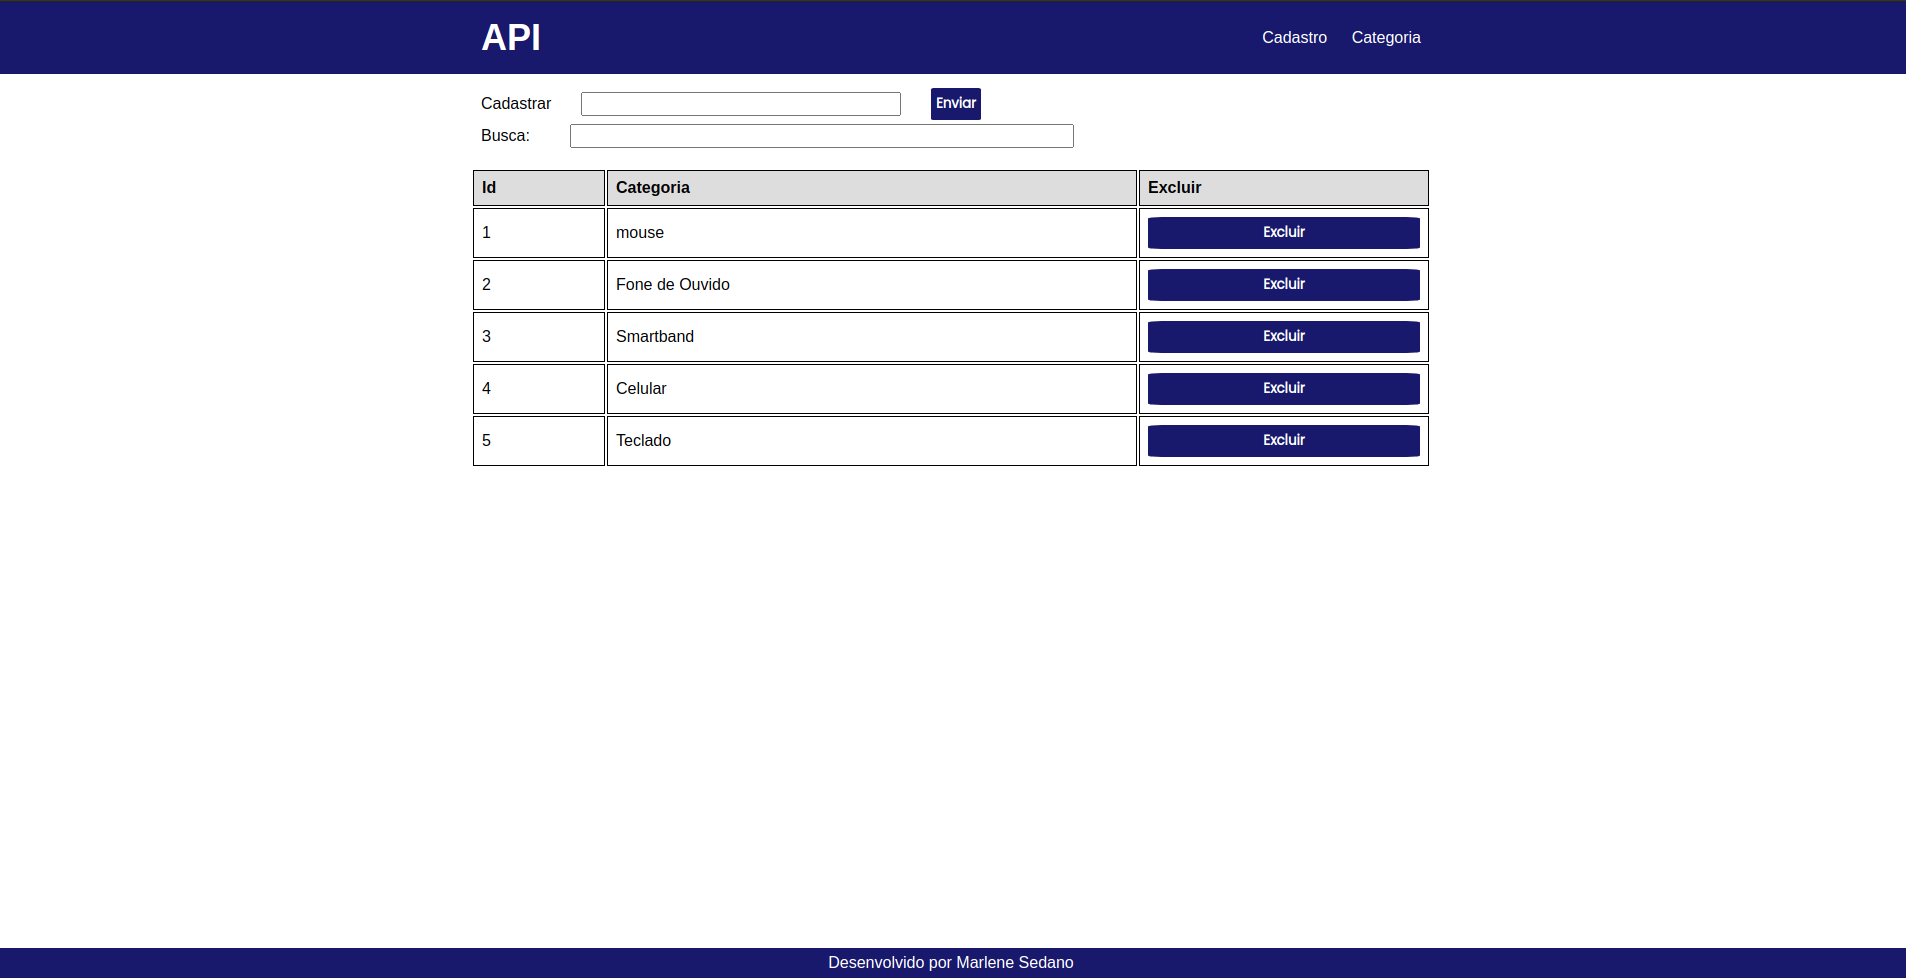
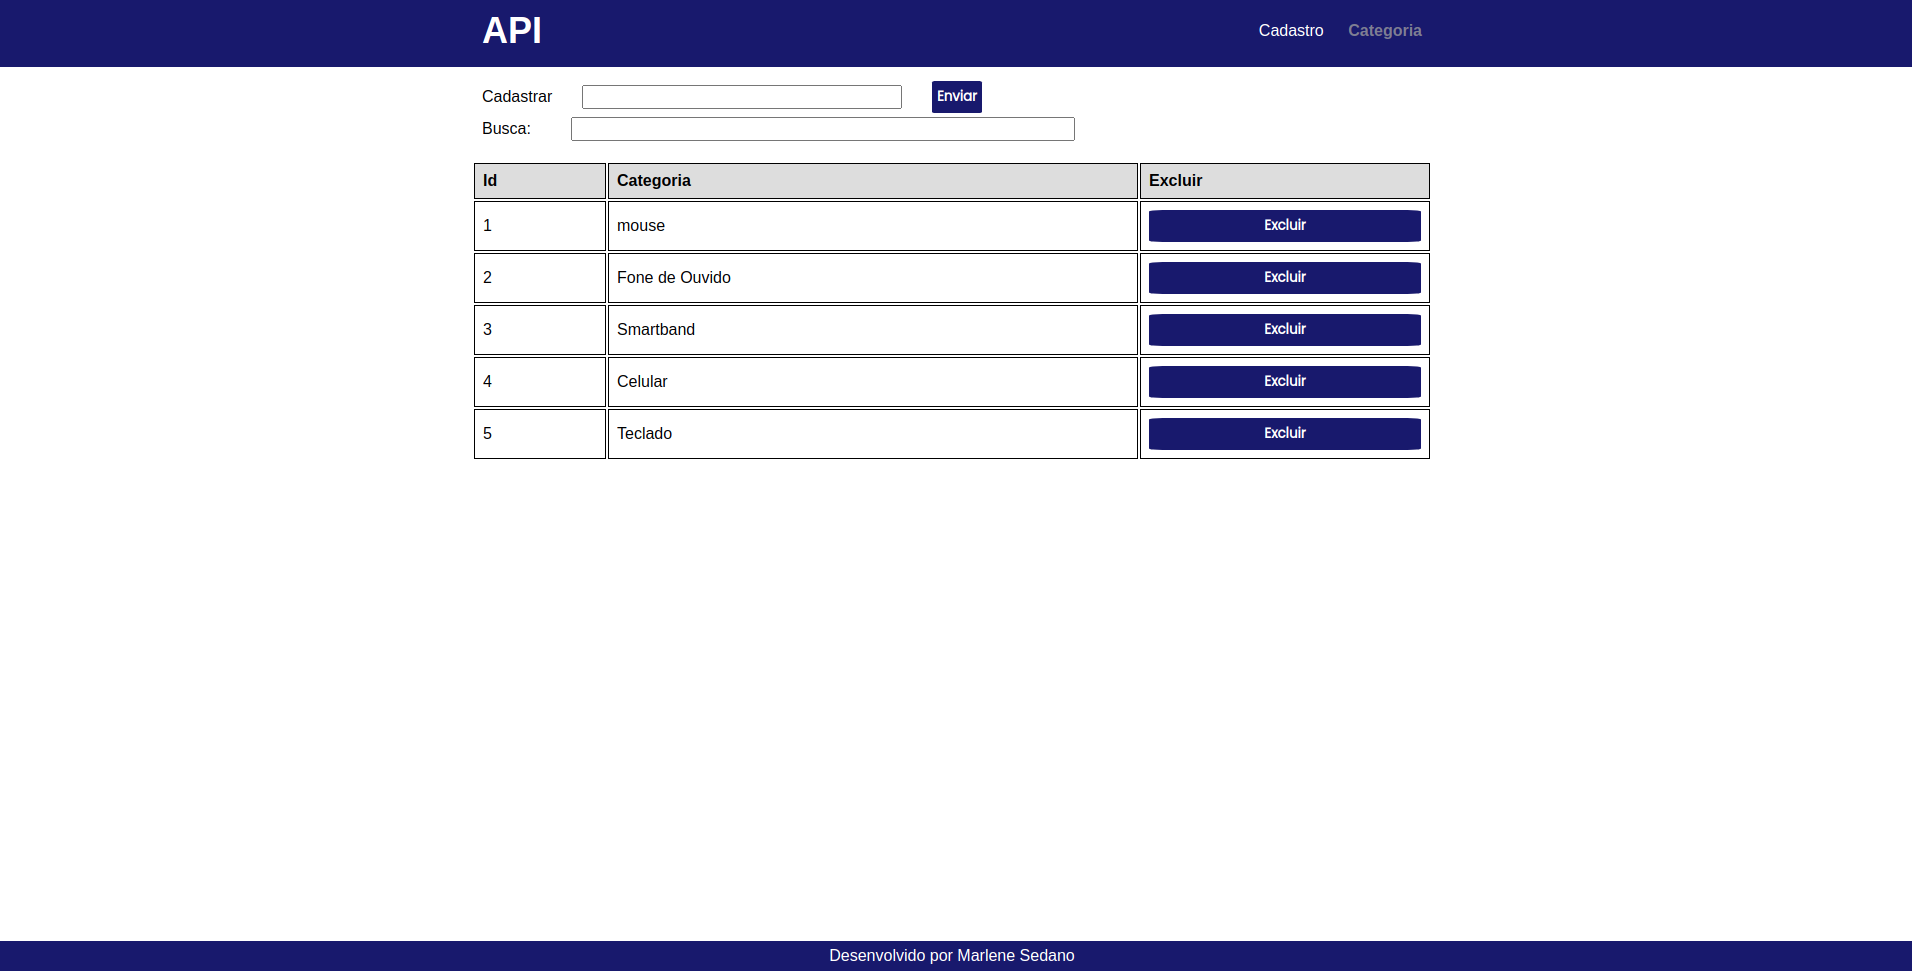
Adicionado Readme e melhorando layout

Changed region(s): [[0.0, 0.0, 1.0, 0.4943], [0.4334, 0.9578, 0.5572, 1.0], [0.7429, 0.4325, 0.7739, 0.4634]]

diff --git a/styles.css b/styles.css
@@ -40,6 +40,12 @@ a {
   margin: 0 10px;
 }
 
+a:hover {
+  color: #7e7e94;
+  font-weight: bold;
+  transition: all ease 0.3s;
+}
+
 .menu-bg {
   background: var(--cor-bg-main);
 }
@@ -58,7 +64,12 @@ a {
   padding: 10px;
 }
 
-.controler{
+.spotlight{
+  color: #7e7e94;
+  font-weight: bold;
+}
+
+.controler {
   flex-direction: column;
   text-align: center;
   align-items: center;
@@ -68,20 +79,20 @@ a {
   flex-wrap: wrap;
 }
 
-.form-list{
+.form-list {
   display: flex;
   flex-direction: column;
   max-width: 960px;
   margin: 30px auto;
 }
 
-.input{
+.input {
   margin: 5px 0;
   height: 20px;
   font-family: var(--font-main);
 }
 
-#send{
+#send {
   width: 400px;
   justify-content: center;
 }
@@ -99,16 +110,15 @@ a {
   font-family: var(--font-main);
 }
 
-#category{
+#category {
   height: 25px;
   font-family: var(--font-main);
 }
 
-.register{
+.register {
   width: 500px;
   height: 20px;
   justify-content: center;
-  
 }
 
 .table-list {
@@ -127,7 +137,7 @@ th {
   background-color: #dddddd;
 }
 
-button{
+button {
   background: var(--cor-bg-main);
   width: 100%;
   height: 2rem;
@@ -138,14 +148,15 @@ button{
   font-weight: bold;
 }
 
-button:hover{
+button:hover {
   background-color: var(--cor-font-main);
   color: black;
   cursor: pointer;
-  border: 1px solid  black;
+  border: 1px solid black;
 }
 
-.register, .search-input{
+.register,
+.search-input {
   display: flex;
   align-items: center;
   justify-content: flex-start;
@@ -153,15 +164,15 @@ button:hover{
   gap: 20px;
 }
 
-.send{
+.send {
   display: flex;
   justify-content: flex-start;
   width: 50px;
   padding: 5px auto;
 }
 
-.search-input{
-  gap: 40px
+.search-input {
+  gap: 40px;
 }
 
 footer {

diff --git a/cad_products.html b/cad_products.html
@@ -21,7 +21,11 @@
         <nav class="menu-nav">
           <ul>
             <li>
-              <a href="http://127.0.0.1:5500/cad_products.html#">Cadastro</a>
+              <a
+                class="spotlight"
+                href="http://127.0.0.1:5500/cad_products.html#"
+                >Cadastro</a
+              >
               <a href="http://127.0.0.1:5500/cad_category.html#">Categoria</a>
             </li>
           </ul>
@@ -38,7 +42,7 @@
         <input class="input price" type="text" />
         <label for="category">Categoria</label>
         <select id="category" class="input category" name="category">
-          <!-- <option value="category_bd">Selecione</option> -->
+          <option value="category_bd">Selecione</option>
         </select>
         <div class="send">
           <button type="submit" id="send">Enviar</button>

diff --git a/cad_category.html b/cad_category.html
@@ -21,7 +21,11 @@
           <ul>
             <li>
               <a href="http://127.0.0.1:5500/cad_products.html#">Cadastro</a>
-              <a href="http://127.0.0.1:5500/cad_products.html#">Categoria</a>
+              <a
+                class="spotlight"
+                href="http://127.0.0.1:5500/cad_products.html#"
+                >Categoria</a
+              >
             </li>
           </ul>
         </nav>

diff --git a/README.md b/README.md
@@ -1,6 +1,6 @@
 # Consumo de API
 
-Implementar
+Projeto de consumo de API onde é possivel cadastrar produtos e categorias e filtrar-los, ultilizando Json-Server.
 
 ## Projeto Consumo de API com Json Server
 
@@ -13,32 +13,36 @@ Este projeto foi desenvolvido com as seguintes tecnologias:
 - HTML
 - Css
 - JavaScript
+- Json-Server
 
                                                      
 ## Demonstração
  
-<img src="">
 
-Implementar
+Nesta tela mostra o inicio do projeto, onde é possivel filtrar os produtos por Nome e caso queira excluir, o processo de excluir vai excluir tanto da DOM quanto do Banco de Dados (Json-server).
 
-<img src="./assets/tela2.png">
+<img src="./assets/inicio.png">
 
-. 
-
-<img src="./assets/tela3.png">
+Ao selecionar a guia Cadastro que se encontra no header, é possivel cadastrar o produto. Basta preencher os campos e selecionar a categoria desejada, caso não tenha a categoria é possivel cadastrar na guia Categoria.
+<img src="./assets/cadproduto.png">
+ 
+Na tela abaixo é a tela de Categorias, onde é possivel também realizar a busca por nome e também é possivel realizar o cadastro.
+<img src="./assets/categoria.png">
 
 
 ## Como usar
 
 ```
-Implementar
+Para usar tem que baixar o pacote do Json no seguinte caminho: https://github.com/typicode/json-server.
+
+Ao dar o start no serviço, usar o banco de dados bd.json que esta também anexado no repositório. (vai mostrar um banco de dados ja com alguns produtos e categorias)
 
 
 
 E o repositório esta no seguinte caminho:
 
 # Clone este repositório
-$ git clone 
+$ git clone https://github.com/marlenesedano/cadastro_produto_jsonserver.git
 
 
 
